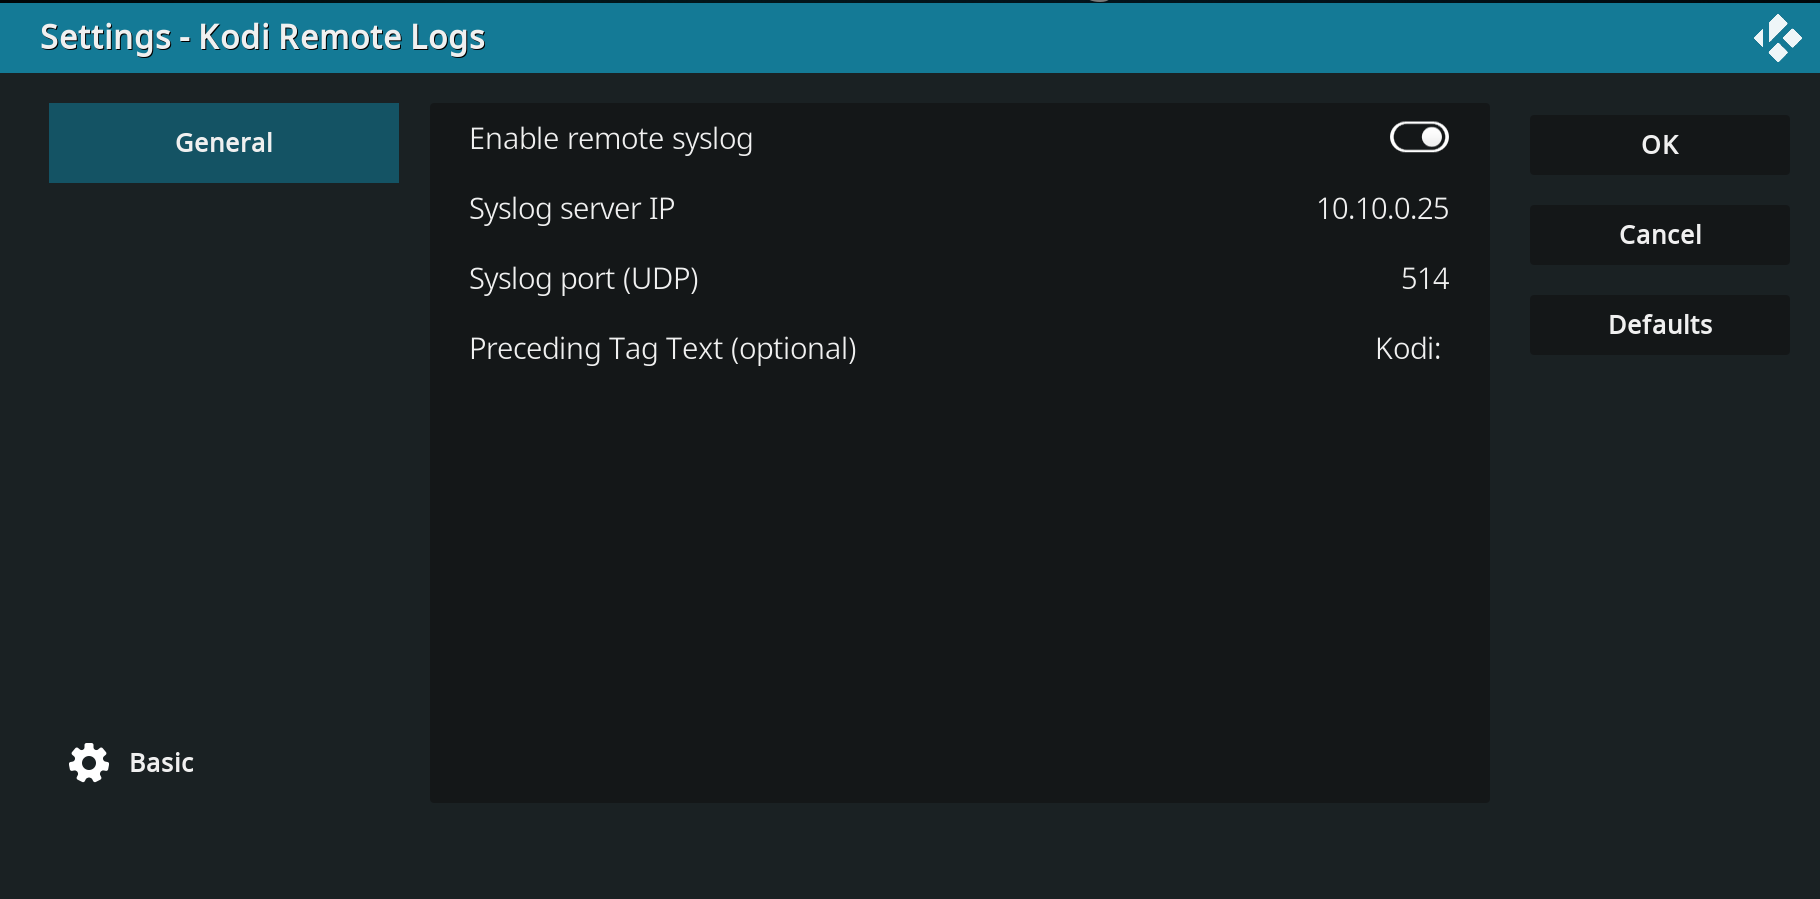
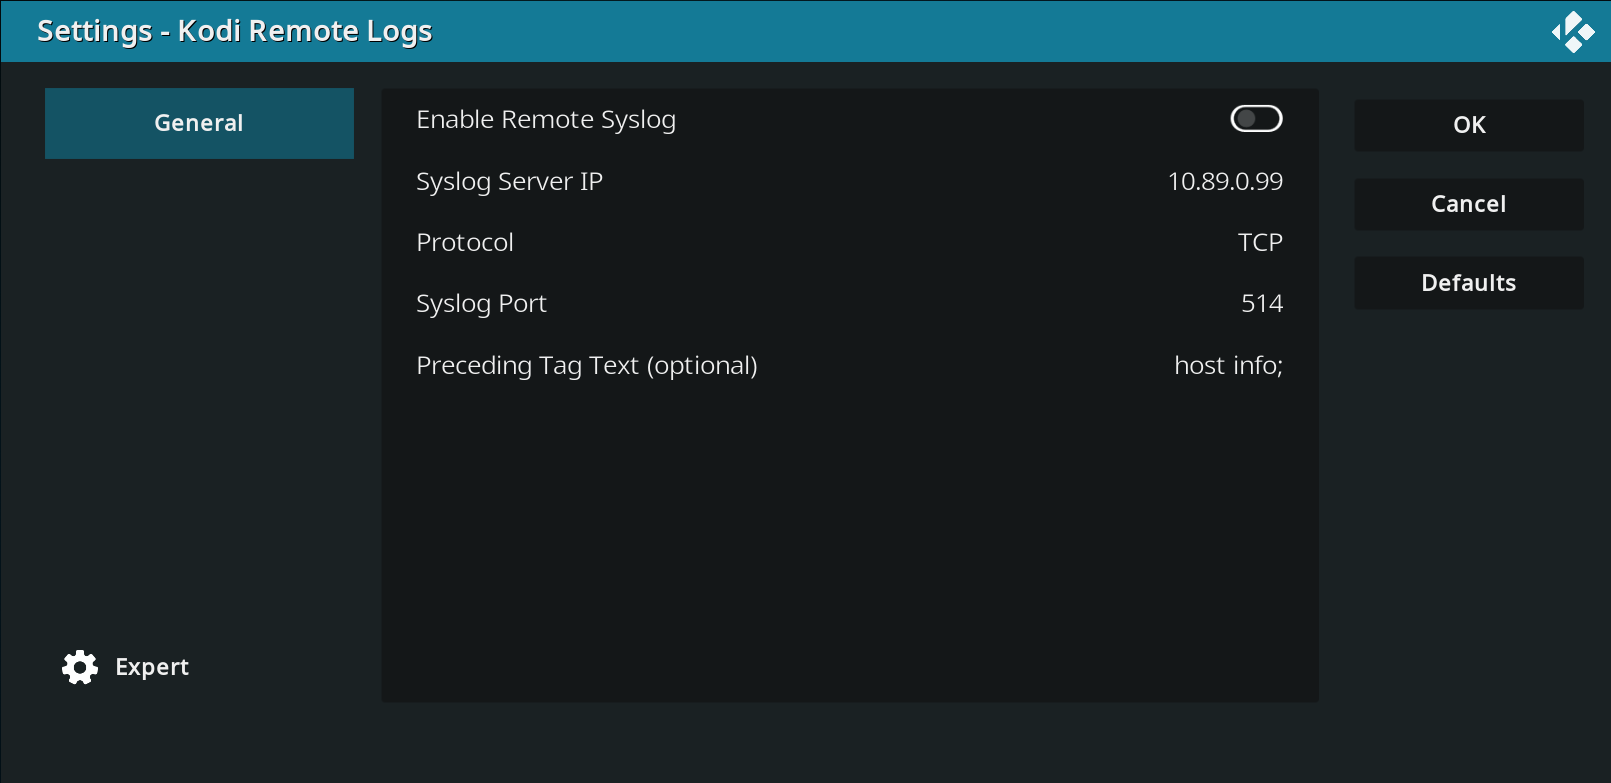
version 0.2.0
addition of TCP

diff --git a/README.md b/README.md
@@ -1,17 +1,17 @@
 # Forward Kodi Logs 
 ---
-This add-on is designed to read the internal log file, check every 5 seconds for new lines, and send those lines to a local syslog server via UDP.
+This add-on is designed to read the internal log file, check every 5 seconds for new lines, and send those lines to a local syslog server via TCP or UDP.
 
 There are just a few settings to configure. 
 
 Forwarding can be toggled on/off.
-Set the IP address of your syslog server along with its UDP port (514 default).
+Set the IP address of your syslog server along with its TCP/UDP port (TCP on 514 by default).
 
 Tag text can be useful if you separate your log files by app name.  Spaces will be included.  This field is empty by default, though a basic use case might implement "Kodi: " for sorting purposes. 
 
 ![My plot](settings.png)
 
-[Download](https://github.com/calebyourison/kodi_syslog/releases/tag/kodi-syslog) and install from zip.
+[Download](https://github.com/calebyourison/kodi_syslog/releases/tag/kodi-syslog-0.2.0) and install from zip.
 
 #### Disclaimer
 ---

diff --git a/CHANGELOG.md b/CHANGELOG.md
@@ -1,0 +1,2 @@
+#### 0.2
+- Addition of TCP
